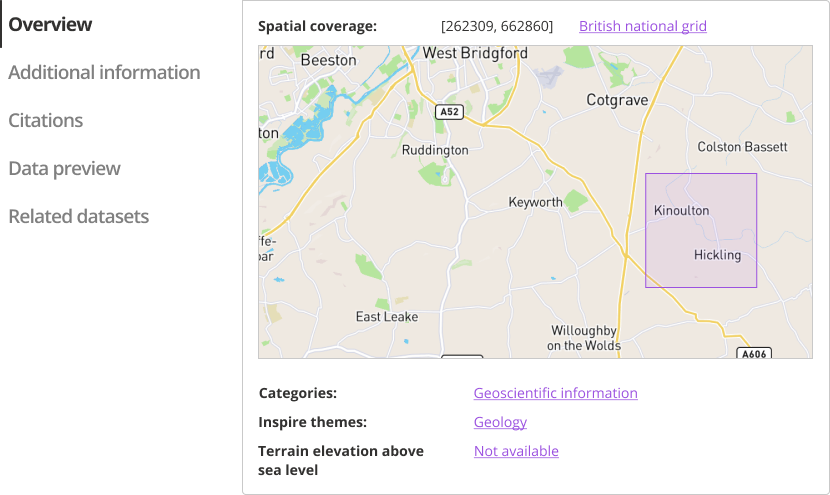
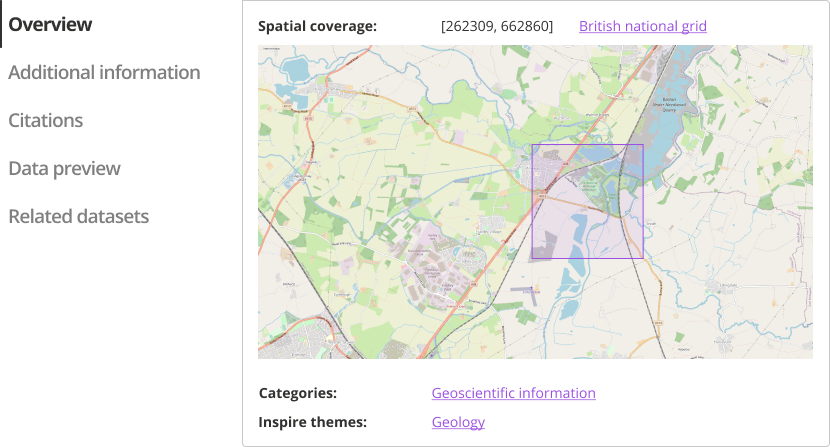
updated maps on relevance page

diff --git a/docs/main-content/steps/assess-dataset-relevance.md b/docs/main-content/steps/assess-dataset-relevance.md
@@ -17,7 +17,7 @@ Dataset titles should be clearly visible as the first heading users are presente
 
 <div class="image-container">
 
-![dataset heading](../../_media/assess-dataset-relevance/dataset-heading.png)
+![Dataset heading on dataset details page](../../_media/assess-dataset-relevance/dataset-heading.png)
 
 *Heading section for dataset details*
 
@@ -33,7 +33,7 @@ Grouping datasets under parent topics can help users understand the relevancy of
 
 <div class="image-container">
 
-![topics](../../_media/assess-dataset-relevance/dataset-heading-topics.png)
+![Dataset heading on dataset details page. It highlights the topics for this example dataset.](../../_media/assess-dataset-relevance/dataset-heading-topics.png)
 
 *Dataset topics*
 
@@ -57,7 +57,7 @@ Indicate how current datasets are, providing users with information about when a
 
 <div class="image-container">
 
-![Additional info](../../_media/assess-dataset-relevance/update-information.png)
+![Additional information for dataset showing the dataset creation time and frequency of updates](../../_media/assess-dataset-relevance/update-information.png)
 
 *Dataset details relating to creation time and updates*
 
@@ -71,7 +71,7 @@ If there are multiple ways to access data (e.g. API access), instructions should
 
 <div class="image-container">
 
-![Additional info](../../_media/assess-dataset-relevance/download-panel.png)
+![Download link, file details and license information for a](../../_media/assess-dataset-relevance/download-panel.png)
 
 *Download link*
 
@@ -83,9 +83,9 @@ Clearly show the geographical extent of the data (pin on the map or polygon of a
 
 <div class="image-container">
 
-![Additional info](../../_media/assess-dataset-relevance/quick-overview.png)
+![Location preview for the datasets on dataset details page. ](../../_media/assess-dataset-relevance/quick-overview.png)
 
-*Location preview*
+*Location preview. Map source: [OpenStreetMap](https://www.openstreetmap.org)*
 
 </div>
 
@@ -97,7 +97,7 @@ Additional metadata can have less visibility in order to reduce the visual clutt
 
 ![Additional info](../../_media/assess-dataset-relevance/additional-information.png)
 
-*Dataset topics*
+*Extra metadata items in human-readable format*
 
 </div>
 
@@ -115,9 +115,9 @@ A few possible ways to group and identify related datasets include:
 
 List view             |  Map view
 :-------------------------:|:-------------------------:
-![Additional info](../../_media/assess-dataset-relevance/similar-datasets.png) | ![Additional info](../../_media/assess-dataset-relevance/nearby-datasets.png)
+![Related datasets shown as a list](../../_media/assess-dataset-relevance/similar-datasets.png) | ![Datasets nearby shown on a map](../../_media/assess-dataset-relevance/nearby-datasets.png)
 
-*Related datasets in list and map view*
+*Related datasets in list and map view. Map source: [OpenStreetMap](https://www.openstreetmap.org)*
 
 </div>
 

diff --git a/docs/main-content/steps/search-for-data.md b/docs/main-content/steps/search-for-data.md
@@ -72,7 +72,7 @@ Include a sample query in the search bar as a suggestion for users of what they 
 
 <div class="image-container">
 
-![Search bar with sxample search criteria](../../_media/search-for-data/search-bar.png)
+![Search bar with example search criteria](../../_media/search-for-data/search-bar.png)
 
 *Example search criteria*
 
